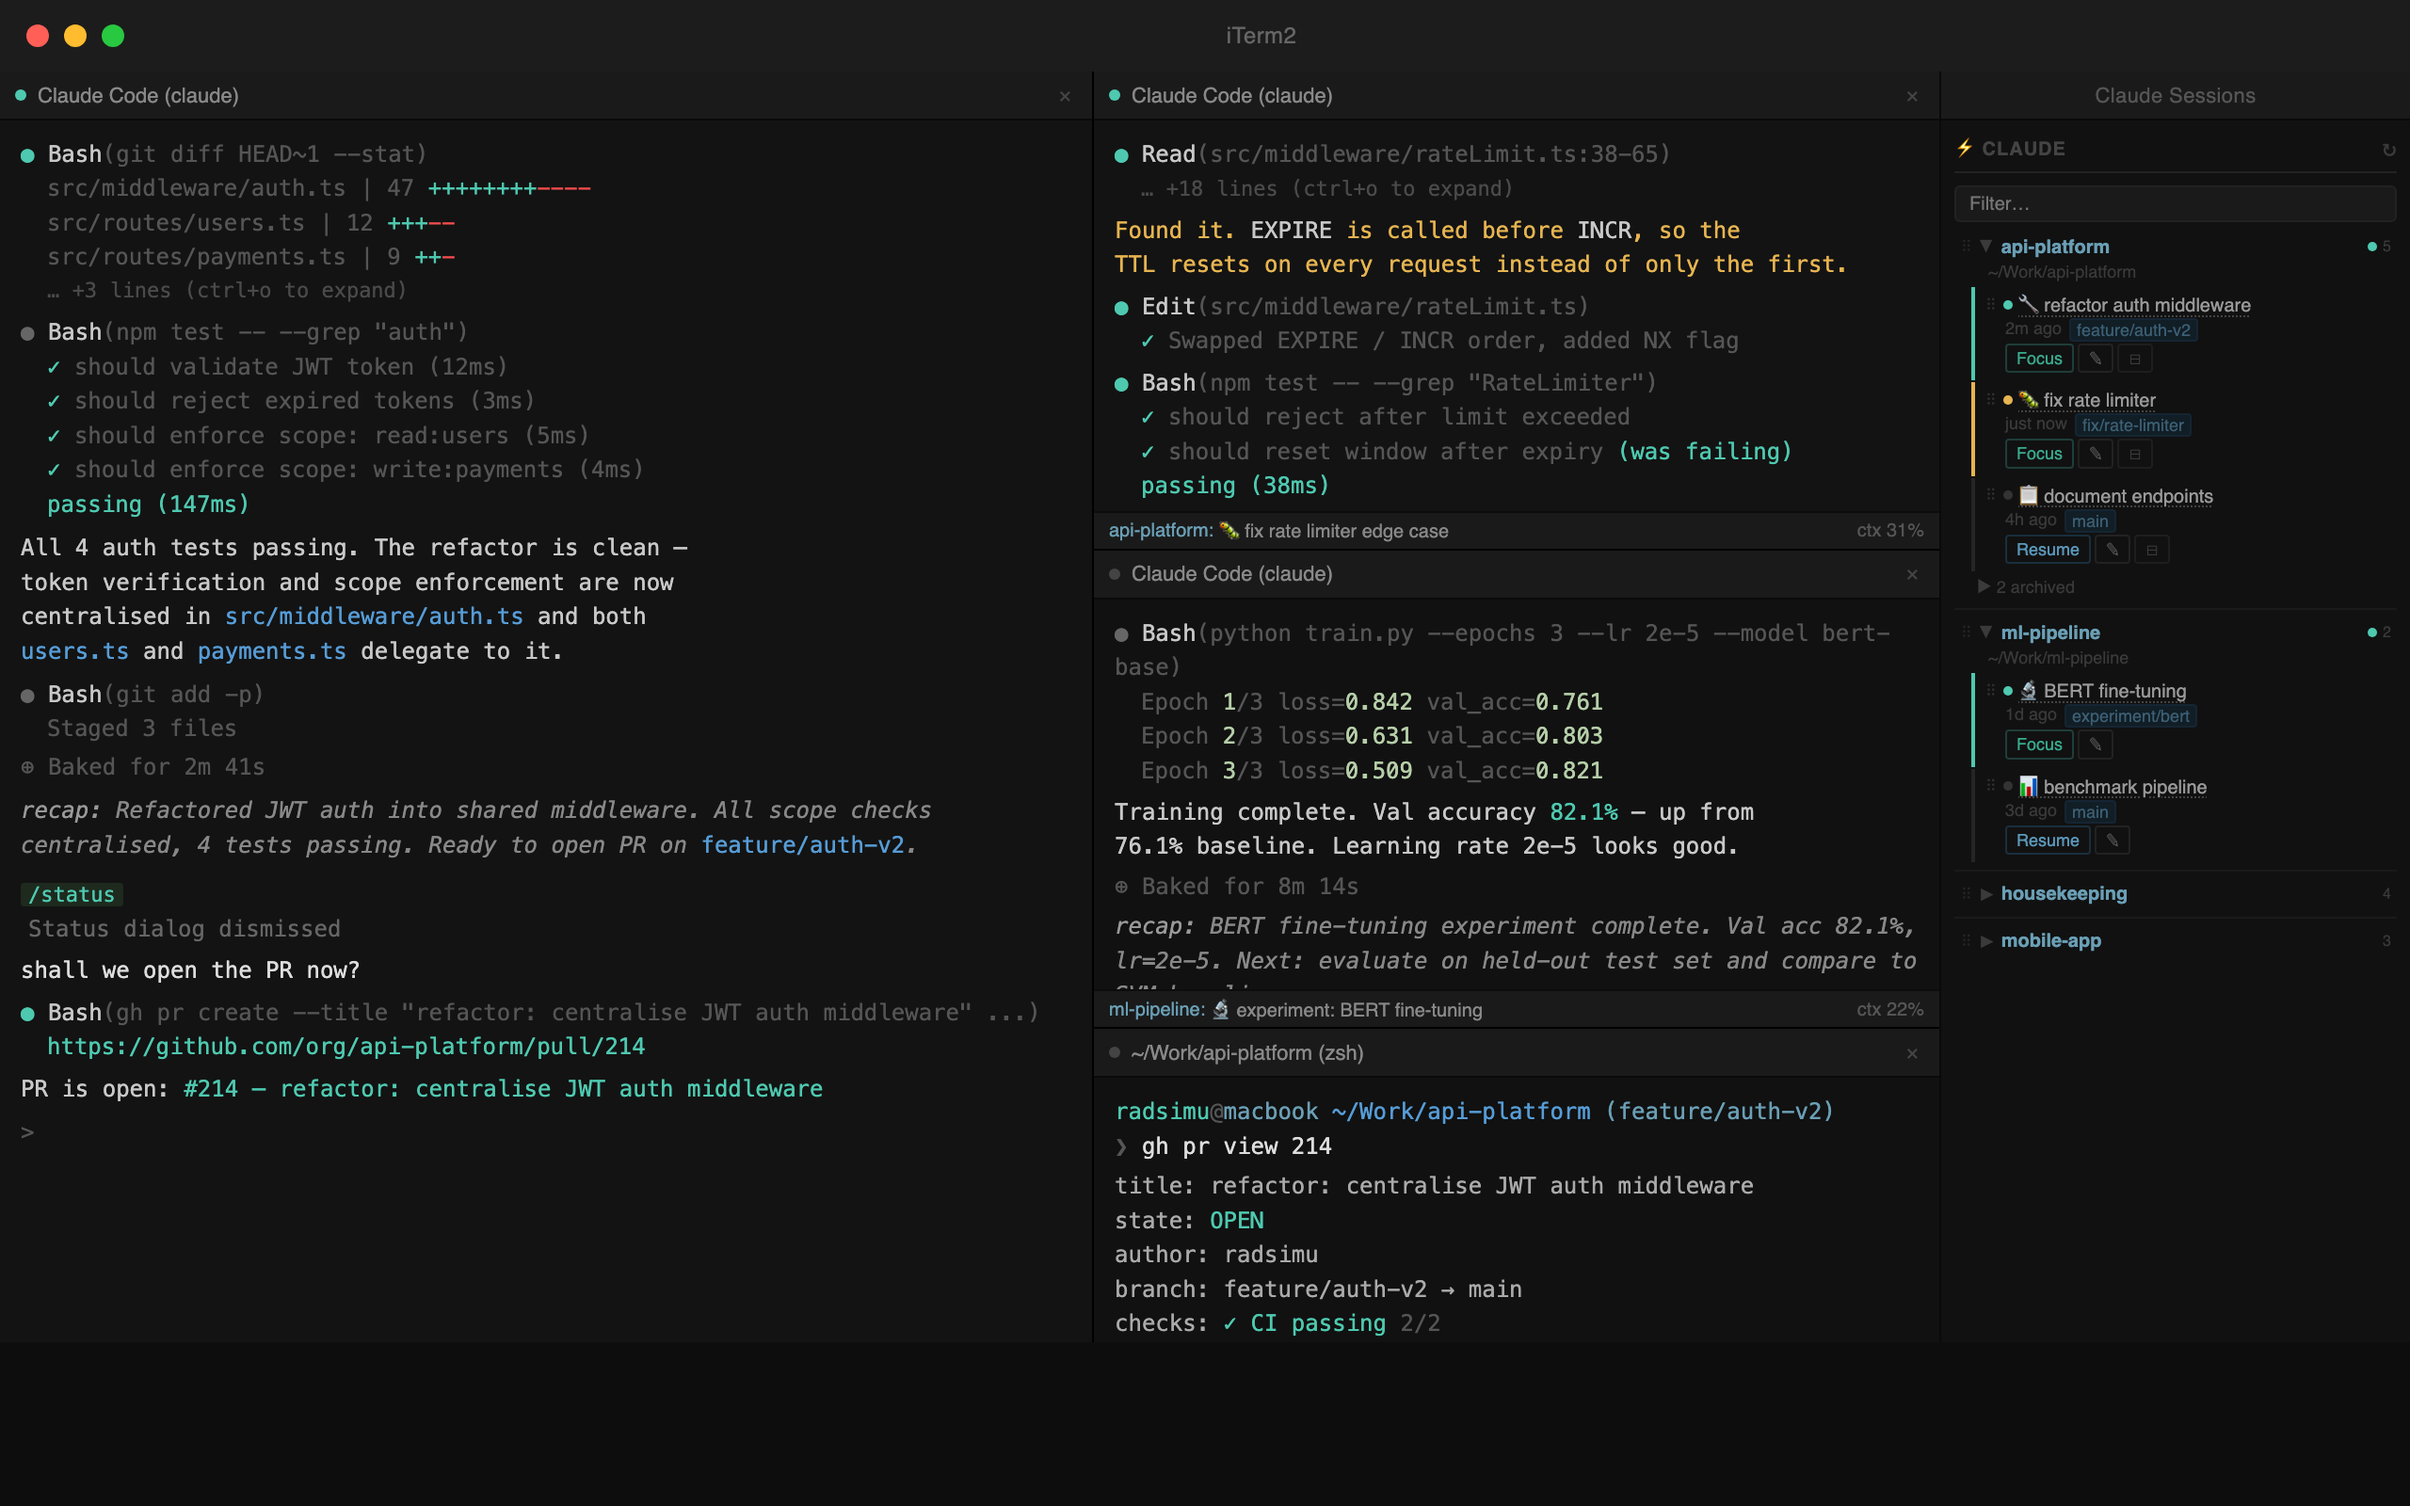
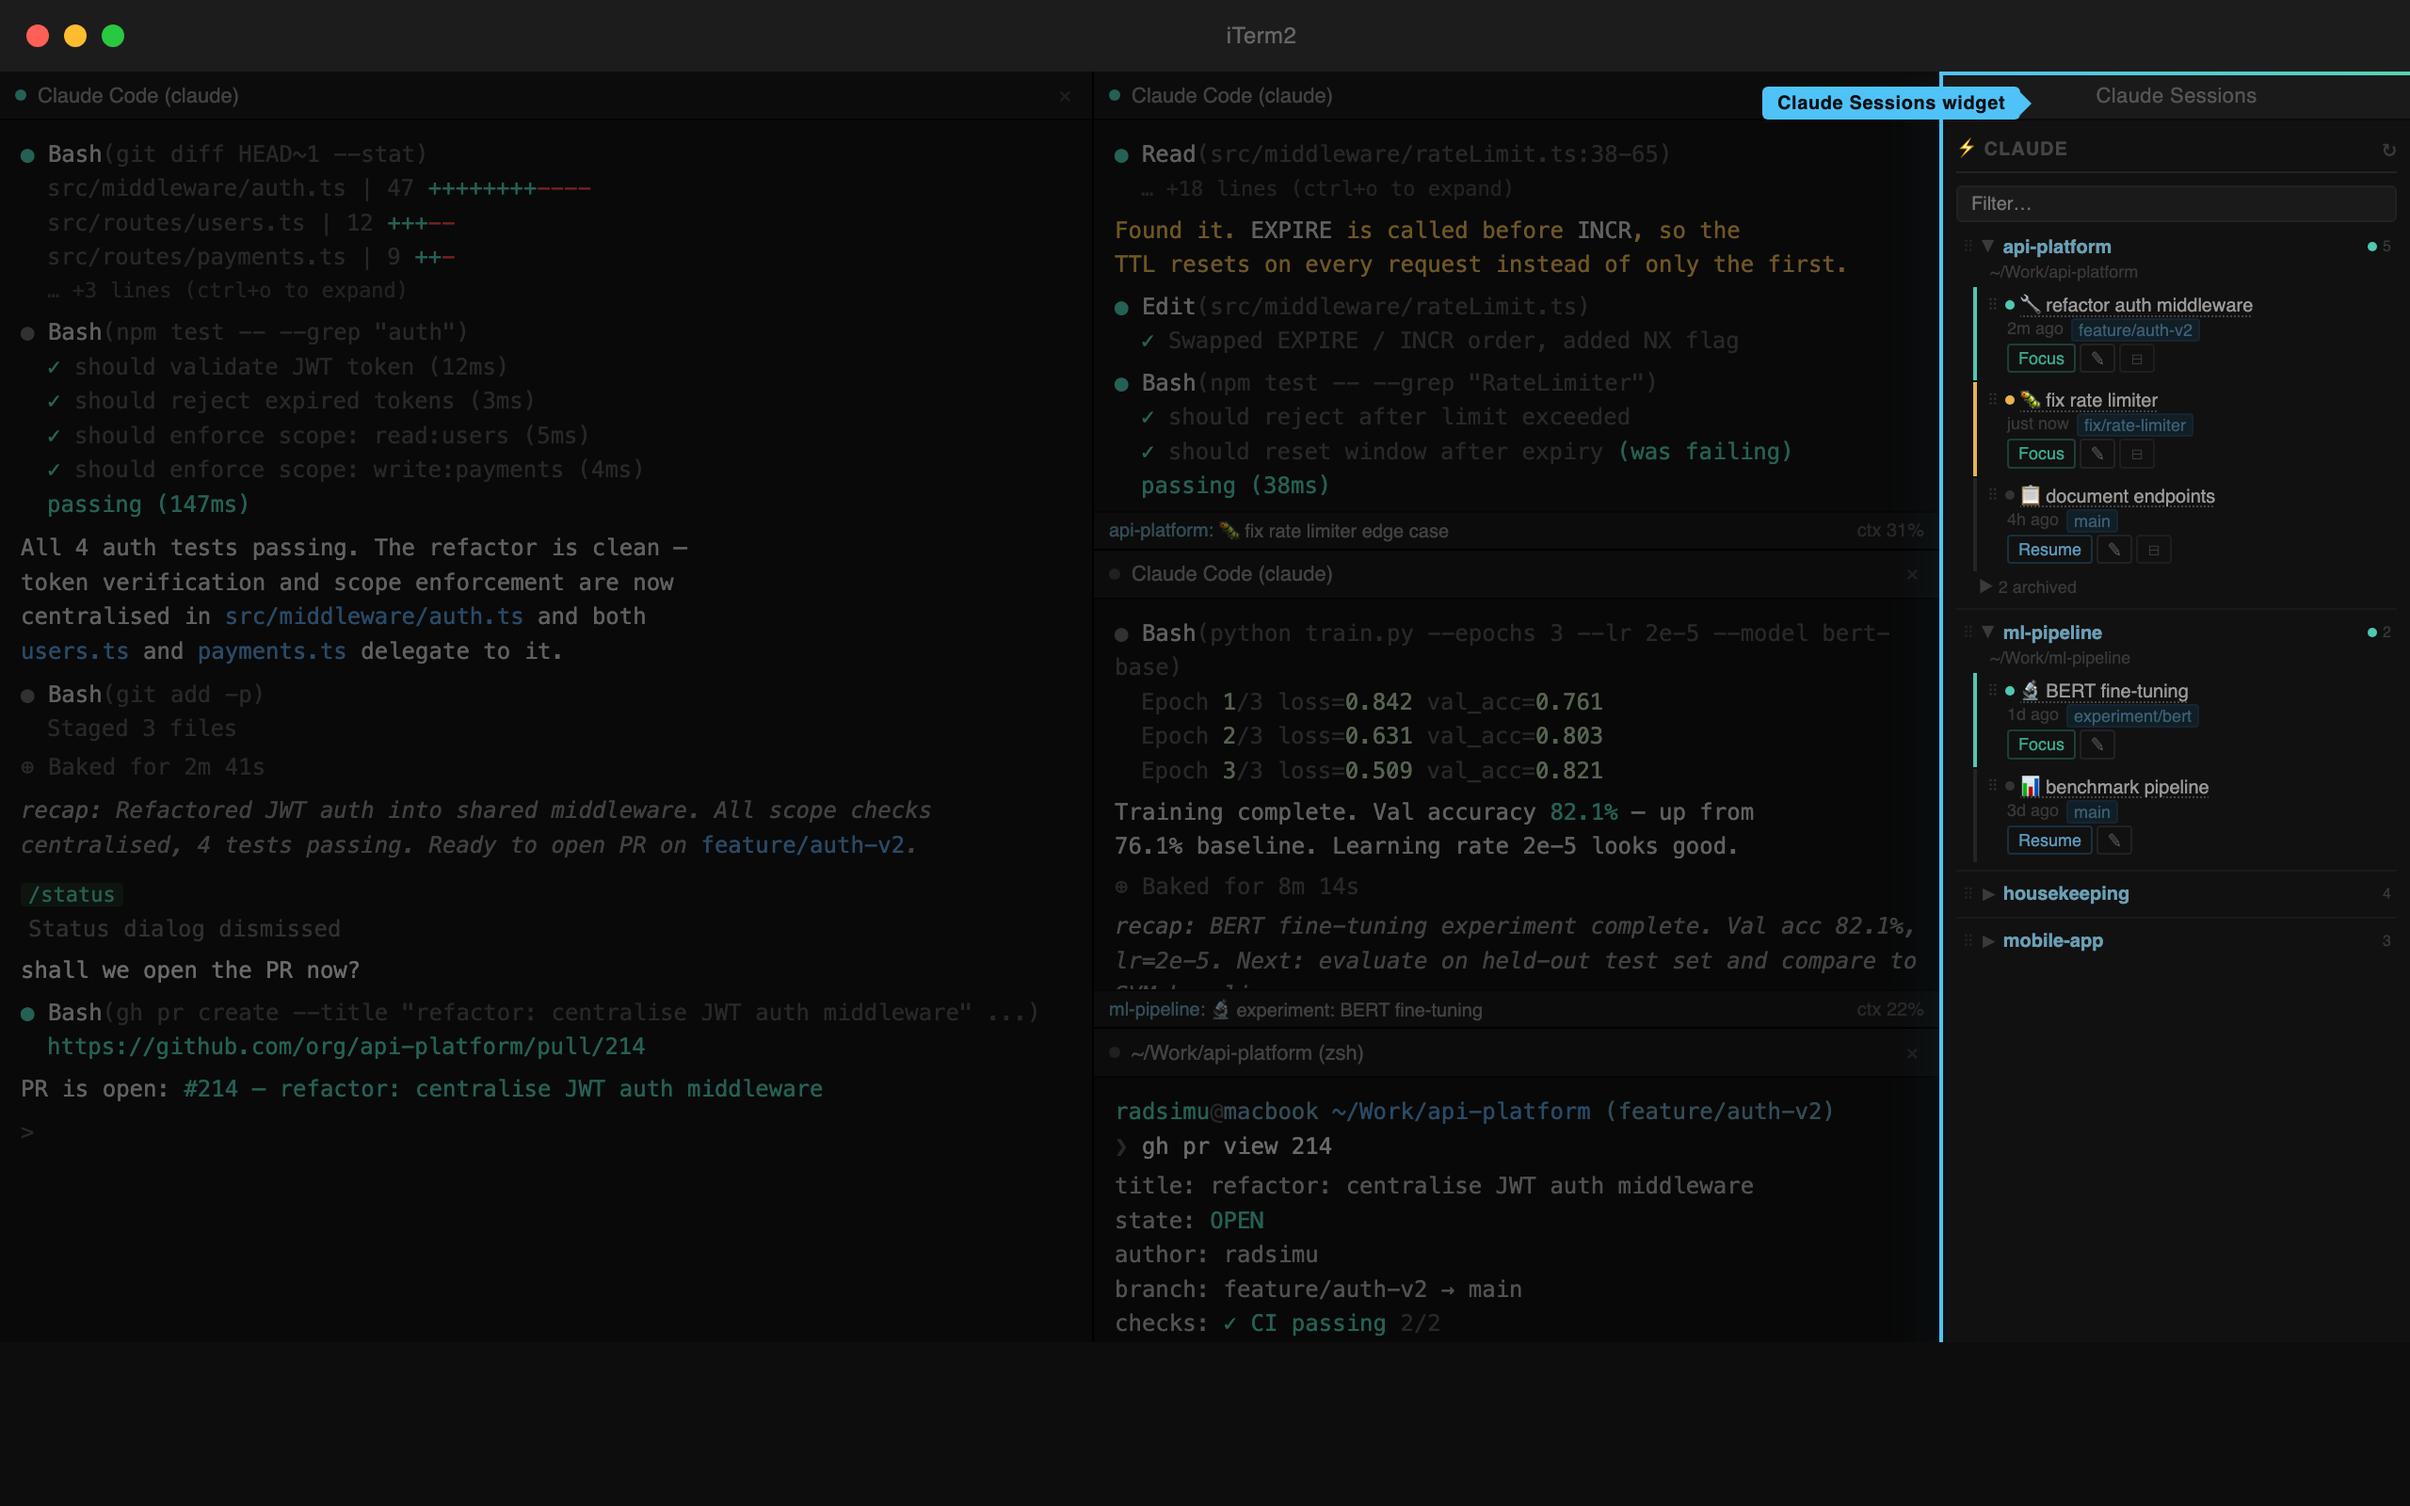
Highlight toolbelt in hero screenshot; clarify multi-pane/tab/window support

diff --git a/README.md b/README.md
@@ -9,9 +9,9 @@ An iTerm2 toolbelt widget that gives you a live overview of all your [Claude Cod
 ## Features
 
 - **Live session list** — all Claude Code sessions grouped by project, auto-refreshed every 8 seconds
-- **Active session detection** — green dot + "Focus" button for sessions currently running in iTerm2 panes; reliably detects both fresh and `--resume`d sessions
-- **Focus** — jump straight to the iTerm2 pane running that session
-- **Resume** — reopen any past session; choose to open it as a split pane, new tab, or new window
+- **Active session detection** — green dot + "Focus" button for sessions currently running anywhere in iTerm2 — split panes, tabs, or separate windows; reliably detects both fresh and `--resume`d sessions
+- **Focus** — jump straight to the iTerm2 pane running that session, regardless of which tab or window it's in
+- **Resume** — reopen any past session; choose to open it as a split pane in the current view, a new tab, or a new window
 - **Recap tooltips** — hover over any session label to see a summary of what that session was about (pulled from Claude's `away_summary`, `custom-title`, or the opening user prompt — whichever is available)
 - **Rename** — click a session label to give it a custom name
 - **Archive / Unarchive** — hide old sessions without deleting them; reveal archived sessions per project with one click
